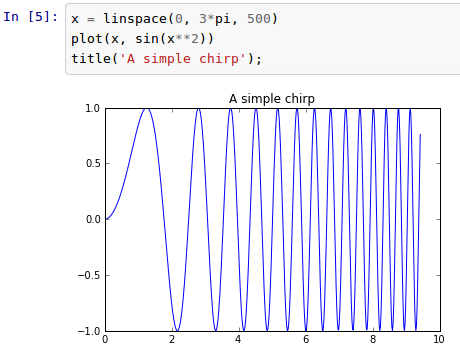
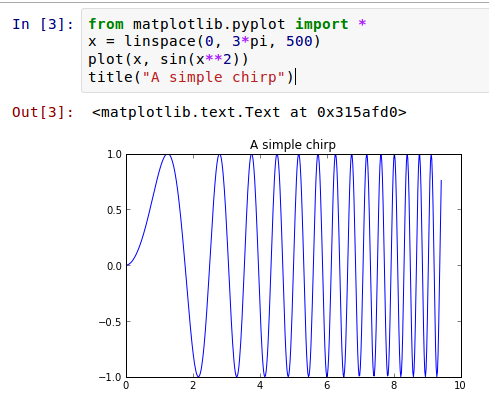
In-workshop edits: Fix typo, missing import from IPython notebook example

Changed region(s): [[0.1826, 0.2479, 0.9739, 0.9915], [0.0, 0.0, 1.0, 0.2169], [0.0304, 0.2479, 0.1522, 0.3099]]

diff --git a/core/notebook.md b/core/notebook.md
@@ -15,6 +15,8 @@ However, there are other ways to work with Python. [IPython](http://ipython.org/
 <img src="../images/ipython_example.png" alt="A sample from the IPython Notebook introduction examples">
 </img>
 
+(This is just an example of what IPython Notebook can do, don't feel like you need to understand it just yet!)
+
 # Installing IPython Notebook
 
 There are a number of ways to install IPython Notebook. Many of these are bundled installers that install Python, IPython, and other useful Python libraries, such as *matplotlib* (a Python graphing library that integrates powerfully with IPython Notebook.)

diff --git a/core/recap.md b/core/recap.md
@@ -96,7 +96,7 @@ You can use the 'if' statement to execute some statements only if a condition is
     angle = 5
     if angle > 0:
         print("Turning clockwise")
-    else if angle < 0:
+    elif angle < 0:
         print("Turning anticlockwise")
     else:
         print("Not turning at all")
